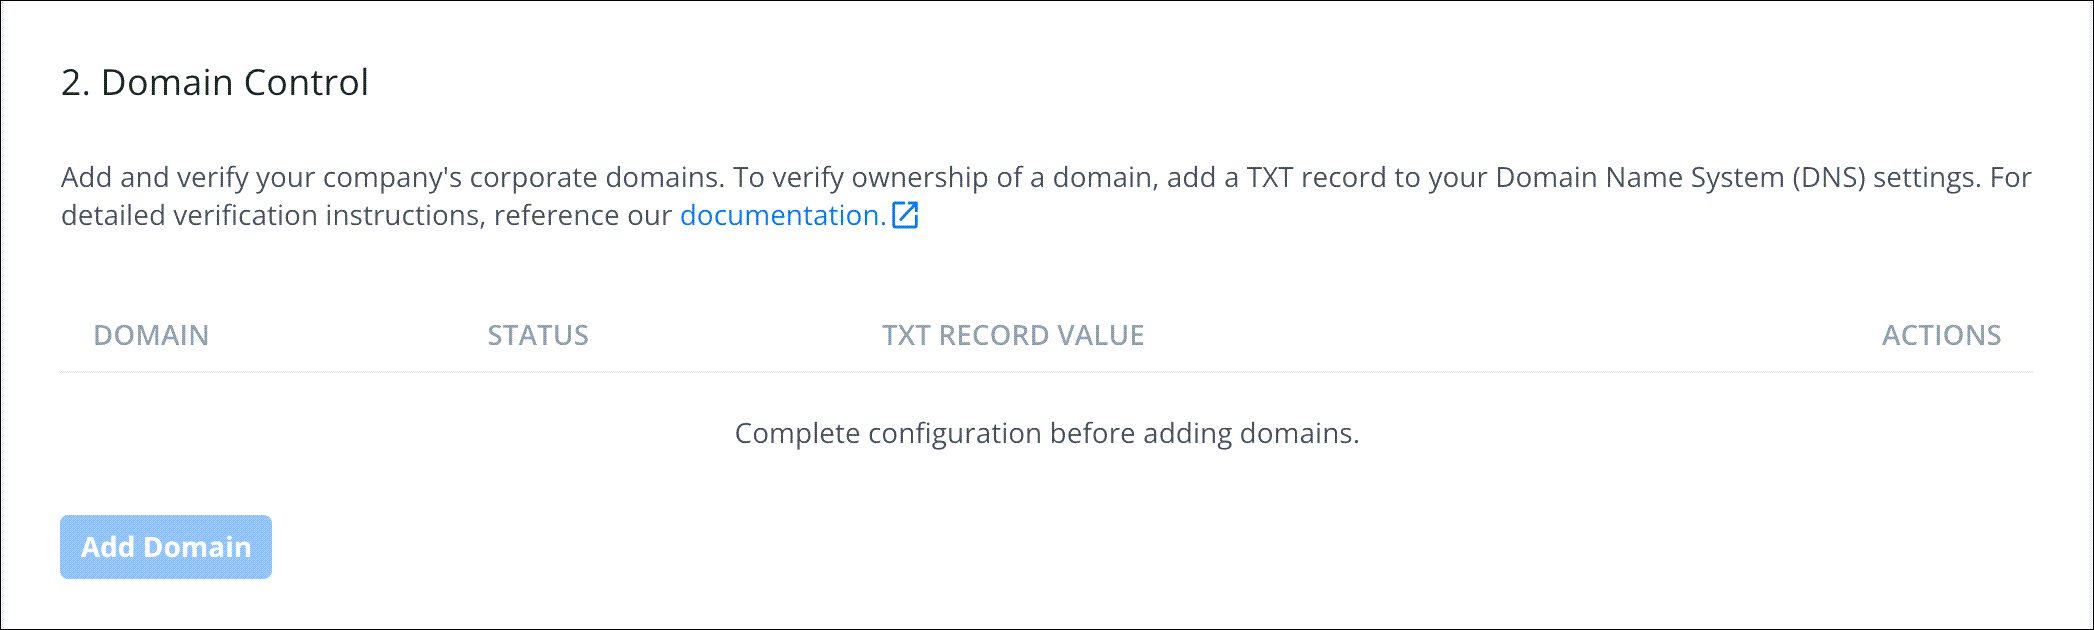
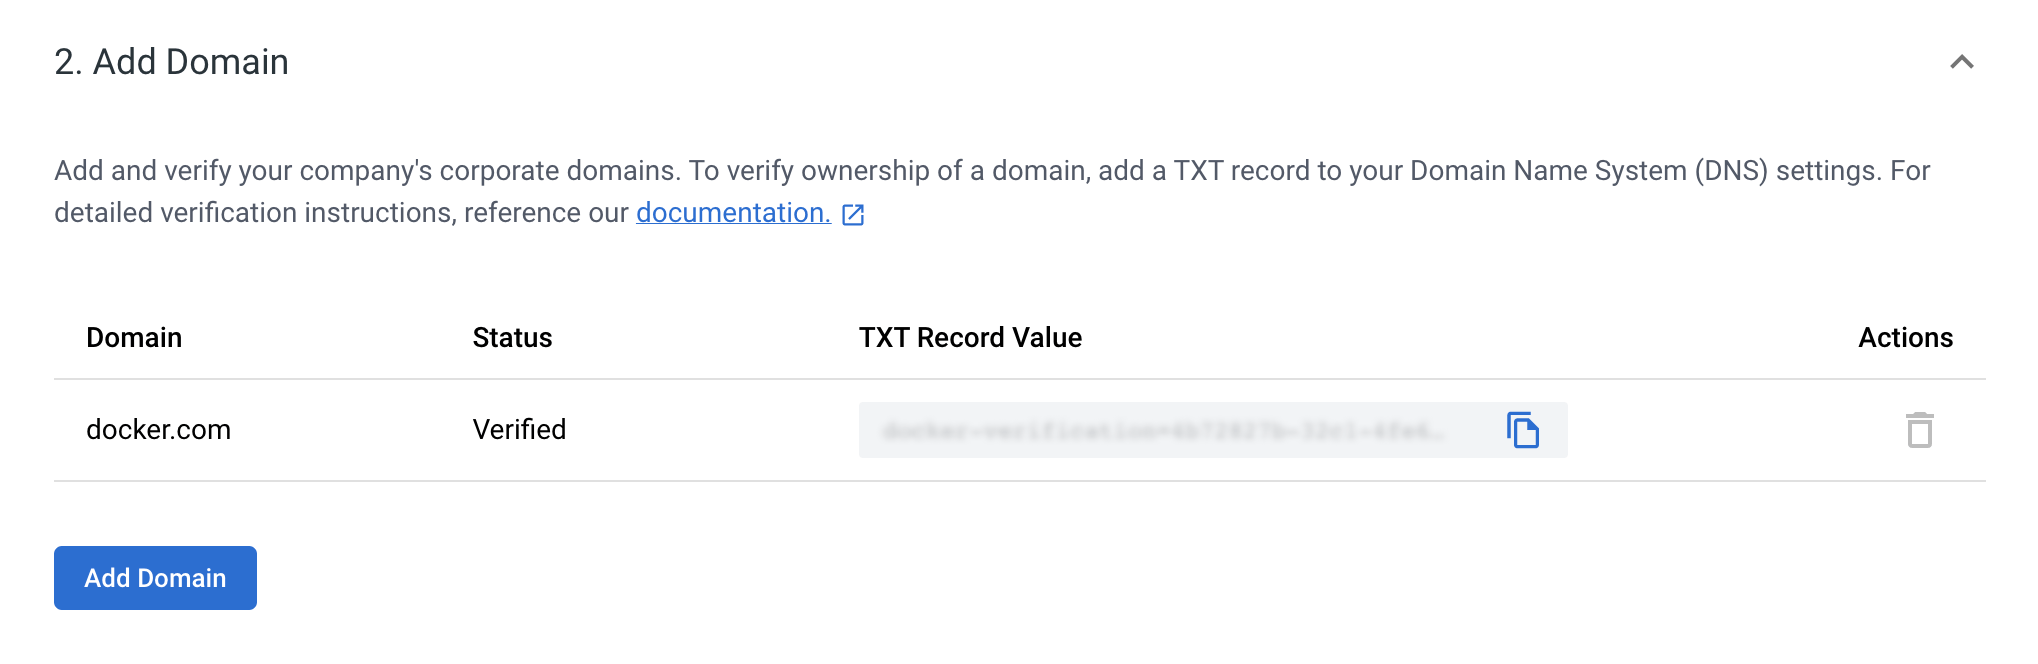
updated Domain

diff --git a/single-sign-on/index.md b/single-sign-on/index.md
@@ -113,7 +113,7 @@ The following video walks you through the process of configuring SSO.
 
 7. Proceed to **add your domain** before you test and enforce SSO.
 
-## Domain control
+## Domain
 
 Click **Add Domain** and specify the corporate domain you’d like to manage with SSO. Domains should be formatted without protocol or www information, for example, yourcompany.com. Docker currently supports multiple domains that are part of your IdP. Make sure that your domain is reachable through email.
 
